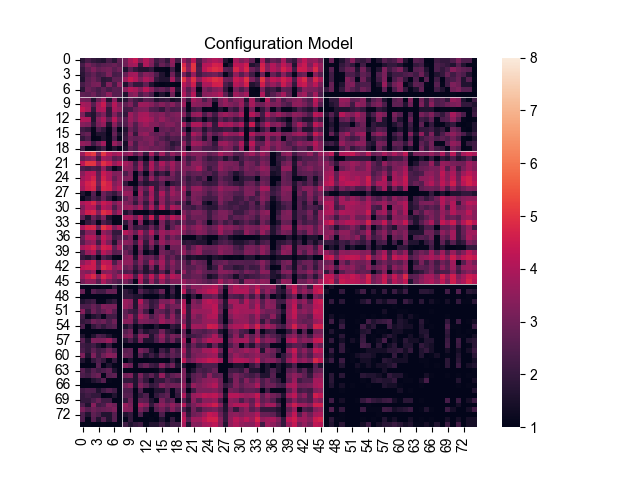
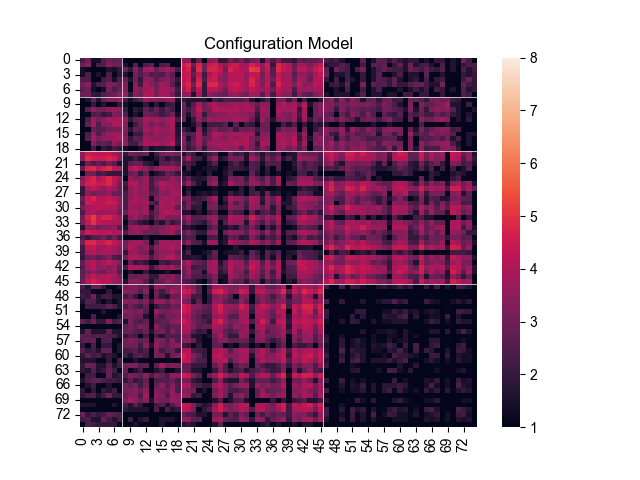
fix

diff --git a/Model/config_model.py b/Model/config_model.py
@@ -118,7 +118,7 @@ for g1 in groups:
         if g1 == 'PAT' and len(degrees['PAT'][g2]) < 29:
             degrees['PAT'][g2].extend([0 for i in range(29-len(degrees['PAT'][g2]))])
 
-        degrees[g1][g2] = sorted(degrees[g1][g2])
+        #degrees[g1][g2] = sorted(degrees[g1][g2])
 
 plt.style.use('seaborn')
 
